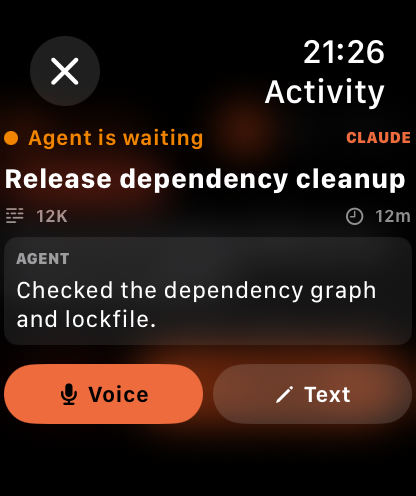
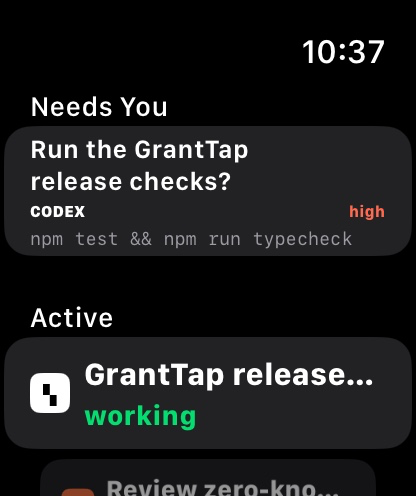
docs: document the content-blind transport

diff --git a/README.md b/README.md
@@ -1,25 +1,66 @@
 # GrantTap Relay
 
 [![license](https://img.shields.io/badge/license-MIT-blue.svg)](LICENSE)
+[![CI](https://github.com/sergii-ziborov/granttap-relay/actions/workflows/ci.yml/badge.svg)](https://github.com/sergii-ziborov/granttap-relay/actions/workflows/ci.yml)
 
-The public zero-knowledge relay used by [GrantTap](https://granttap.com).
-It runs on Cloudflare Workers with Durable Objects, routes WebSockets by room,
-and temporarily queues encrypted envelopes while a paired device is offline.
+GrantTap Relay is the public, content-blind transport used by
+[GrantTap](https://granttap.com). It lets a local GrantTap runtime and its paired
+iPhone exchange end-to-end encrypted envelopes when they are on different
+networks or one side is temporarily offline. No inbound port on the computer is
+required.
+
+The production Worker runs on Cloudflare with Durable Objects. It routes
+authenticated WebSockets by opaque room, retains bounded ciphertext for offline
+delivery, and can send a generic, task-content-free APNs alert and background
+wake so the iPhone reconnects and decrypts locally.
 
 Production health endpoint:
 [granttap-relay.sergii-ziborov.workers.dev/health](https://granttap-relay.sergii-ziborov.workers.dev/health)
 
-| Sessions on iPhone | Visible activity on Apple Watch |
+| Task-first control on iPhone | Current tasks on Apple Watch |
 | --- | --- |
-| ![GrantTap sessions on iPhone](docs/images/phone-sessions.png) | ![GrantTap activity on Apple Watch](docs/images/watch-activity.png) |
+| ![GrantTap Tasks on iPhone](docs/images/iphone-tasks.png) | ![GrantTap task queue on Apple Watch](docs/images/watch-tasks.png) |
+
+The screenshots are real deterministic Demo captures from the current GrantTap
+Personal UI. Demo content performs no command and contains no user data.
+
+## Why the relay exists
+
+```text
+Local GrantTap runtime  <=>  ciphertext relay  <=>  iPhone  <=>  Apple Watch
+                              |                     ^
+                              +---- APNs wake ------+
+```
+
+Computers and phones are commonly behind NAT, change networks, sleep, or lose
+connectivity. A direct socket is therefore not a dependable remote-control
+path, and it cannot deliver while the other peer is offline. The relay supplies
+only rendezvous, bounded retry, and wake-up delivery. Apple Watch communicates
+through its paired iPhone; it does not connect to this Worker directly.
+
+This repository is deliberately a small infrastructure component, not the
+GrantTap application backend. Its product surface is stable by design, while
+maintenance continues for transport compatibility, security, reliability, and
+Cloudflare runtime changes. Provider adapters and local agent control live in
+[granttap-mcp](https://github.com/sergii-ziborov/granttap-mcp); the iPhone and
+Watch experiences live in GrantTap.
+
+The Worker does not provide:
+
+- model or coding-agent execution;
+- a plaintext Task, session, prompt, or conversation database;
+- a credential vault;
+- browser pairing, browser approvals, or a browser control plane;
+- access to a computer filesystem or shell.
 
 ## What the relay can and cannot see
 
-The relay can see routing metadata: room, sender/recipient roles, IP addresses,
+The relay is content-blind, not metadata-blind. It can see routing metadata:
+room, sender/recipient roles, IP addresses,
 timing, expiry, message sizes, and—when background delivery is enabled—an APNs
 device token plus its sandbox/production environment. It receives `nonce` and
-`box` as opaque ciphertext. Silent push wakes contain no command, prompt, path,
-session title, or message text.
+`box` as opaque ciphertext. The fixed APNs alert contains no command, prompt,
+path, session title, or message text.
 
 The relay cannot decrypt commands, questions, agent messages, user replies, or
 approval decisions. Device and per-task secret keys are created locally and
@@ -35,10 +76,11 @@ format. Project keys and Task keys are granted by authorized endpoints; the
 Worker sees only the existing bounded routing metadata and ciphertext.
 
 The Personal relay has no browser approval, browser pairing, or vault endpoint.
-Traffic crossing the native app transport, network, Cloudflare, Durable Objects,
-and APNs remains authenticated ciphertext. One task key cannot decrypt a second
-task; a device can open that second task only if its independent key was
-explicitly granted to that device.
+The WebSocket and Durable Object path carries authenticated ciphertext. APNs
+receives only a fixed generic alert and neutral wake flag, never the encrypted
+envelope or its task metadata. One task key cannot decrypt a second task; a
+device can open that second task only if its independent key was explicitly
+granted to that device.
 
 The complete production worker is intentionally small and public so this
 boundary can be audited instead of trusted as a marketing claim.
@@ -64,19 +106,22 @@ retry budget are delivered only to an already connected peer and are not stored
 for offline retry. Client attachment limits keep complete task frames under the
 separate 32 MiB WebSocket receive limit.
 
-The APNs payload is a silent background wake with `content-available: 1` and
-`granttapWake: true`: no alert, sound, task kind, request id, delivery id,
-prompt, command, title, or path. It asks iOS to pull and decrypt the queued E2EE
-envelope, after which the app creates one actionable local notification. Apple
-does not guarantee background execution timing, so this is best-effort—not a
-promise of instant delivery.
+The APNs payload is a generic time-sensitive alert with title `GrantTap`, the
+fixed body `An agent is waiting for an authenticated decision.`, default sound,
+`content-available: 1`, and `granttapWake: true`. It contains no task kind,
+request id, delivery id, prompt, command, session title, or path. Its background
+component asks iOS to pull and decrypt the queued E2EE envelope; the app can then
+present task-specific controls locally. Apple does not guarantee background
+execution timing, so queue retrieval is best-effort—not a promise of instant
+delivery.
 
 A Cloudflare account takeover or Durable Object database export therefore
 reveals only ciphertext plus operational metadata (opaque room/mailbox ids,
 routing roles, IPs, timing/expiry, sizes, APNs token/environment, and the
-neutral wake flag). There is no decryption key in Worker code, bindings,
-storage, logs, or encrypted Worker secrets. APNs provider credentials can sign
-notifications but cannot decrypt GrantTap traffic.
+neutral wake flag) plus the fixed generic alert text above. There is no
+decryption key in Worker code, bindings, storage, logs, or encrypted Worker
+secrets. APNs provider credentials can sign notifications but cannot decrypt
+GrantTap traffic.
 
 ## Run locally
 
